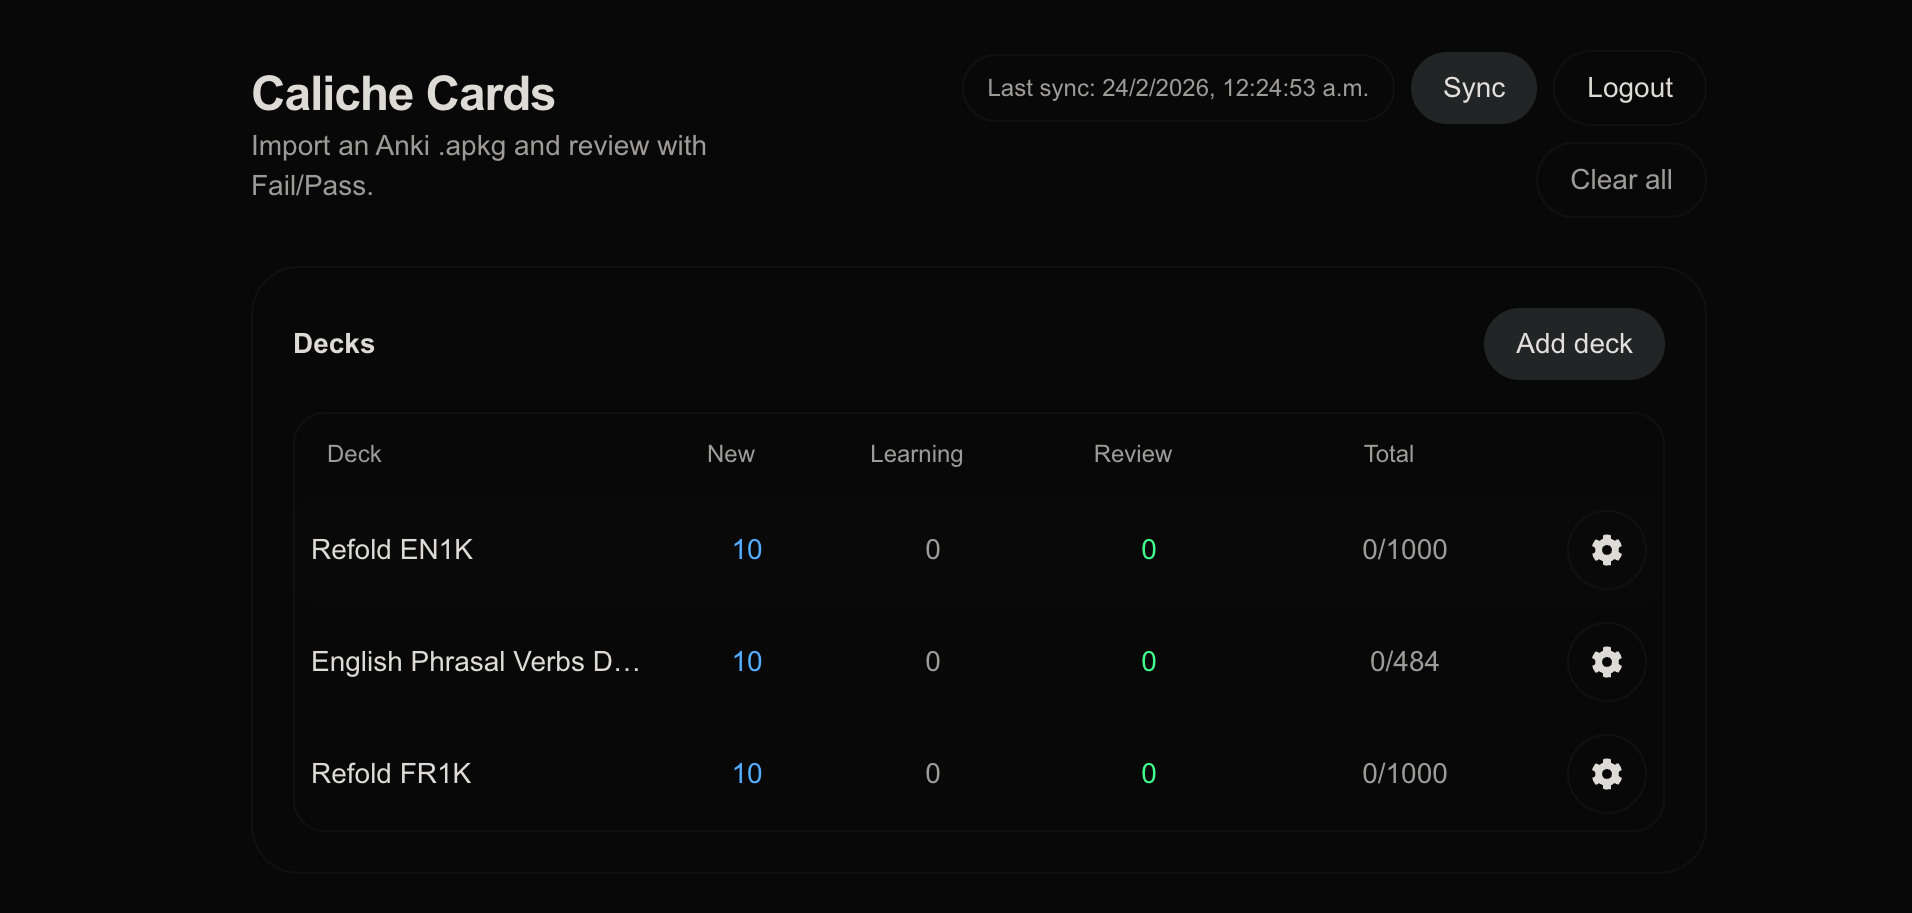
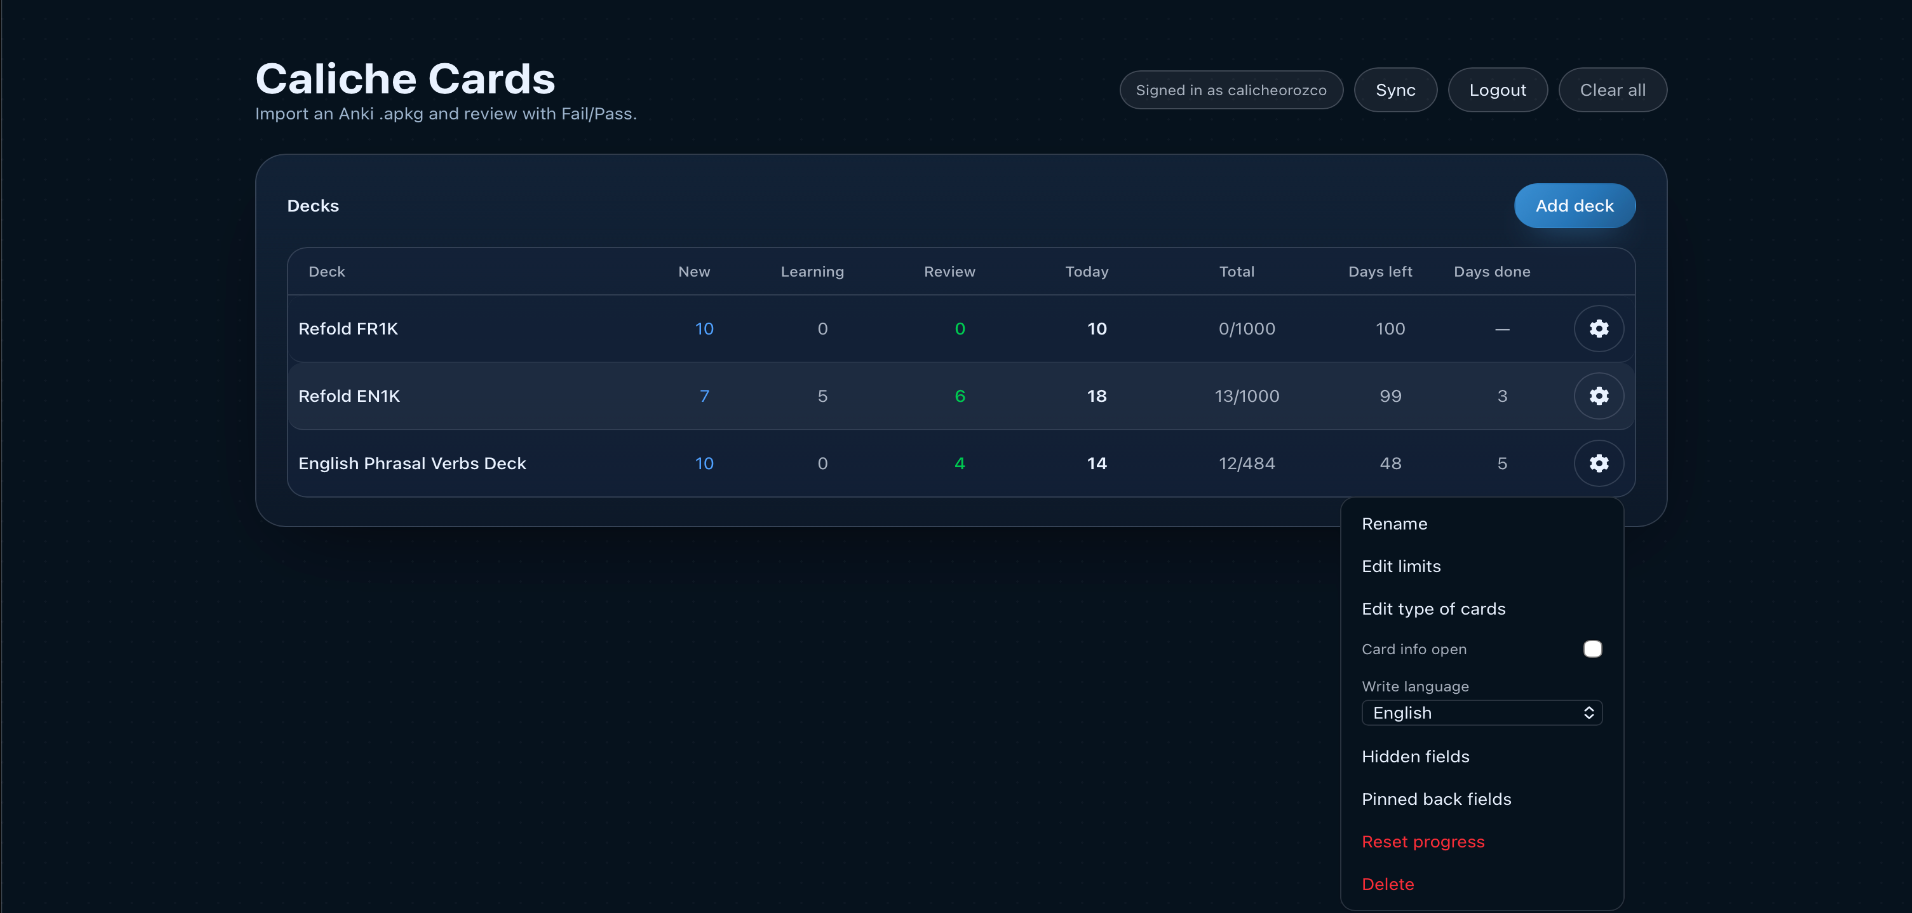
feat: add new portfolio projects and images for enhanced showcase

diff --git a/constants/data.js b/constants/data.js
@@ -30,6 +30,8 @@ import {
   portafolio23,
   portafolio24,
   portafolio25,
+  portafolio26,
+  portafolio27,
   HTML,
   CSS,
   Javascript,
@@ -97,6 +99,65 @@ const myData = {
     }
   ],
   projects: [
+  {
+    title: 'What Should I Watch?',
+    link: 'https://caliche-movies.vercel.app/',
+    github: 'https://github.com/CalicheOrozco/caliche-movies',
+    imgUrl: portafolio26,
+    date: 'May 20, 2026',
+    description: `This one came straight from a personal frustration I've had for years. Every time I sat down to watch something, I'd spend 20 or 30 minutes scrolling through Netflix, Prime, or whatever platform, couldn't decide on anything, and ended up just closing the app and doing something else. It happened constantly, and it was genuinely annoying.
+
+    💡 So I decided to build my own solution: a PWA that asks you a few simple questions about your mood, genre preference, era, and who you're watching with, then just picks something for you using the TMDB API. No endless browsing, no decision paralysis. You answer (or skip) the questions and the app does the rest.
+
+    As I kept using it I kept adding things I personally needed. I added a search bar so I could also look up a specific title and see where it's streaming. I added streaming provider lookup by country because I always wanted to know which platform actually had a movie before getting excited about it. I added swipe gestures because it felt natural on mobile. I added a watch history so I could remember what I'd already seen. I added a "jump to filter" shortcut because sometimes I only care about one thing, like watching something in Korean, and didn't want to step through every question to get there.
+
+    🌍 The app is fully bilingual in English and Spanish, including the synopses pulled from TMDB. It's also installable as a PWA, so I have it on my phone home screen and use it regularly.
+
+    It's one of those projects I built entirely for myself, and it turned out to be one of the ones I use the most.`,
+    stack: [
+      'React',
+      'Vite',
+      'Tailwind',
+      'PWA',
+      'TMDB API'
+    ]
+  },
+  {
+    title: 'Caliche Scrabble',
+    link: 'https://caliche-scrabble.vercel.app',
+    github: 'https://github.com/CalicheOrozco/Caliche-Scrabble',
+    imgUrl: portafolio26,
+    date: 'Apr 16, 2026',
+    description: `I've always loved Scrabble, but I realized that loving a game
+  and being good at it are two different things. The real skill gap for me was
+  anagram recognition: seeing a rack of 7 random tiles and instantly spotting
+  every word hidden inside them. No app I found felt right for serious practice,
+  so I built my own.
+
+  💡 Caliche Scrabble is a full Scrabble training platform. The core is an
+  anagram trainer: you draw random tiles from a real Scrabble bag and your goal
+  is to find every valid word you can form with them. Under the hood, a Web
+  Worker loads both English and Spanish dictionaries (~800,000 words total) on
+  a separate thread, encodes each word as a letter-count vector, and checks the
+  entire dataset against your current hand in ~20ms without ever blocking the UI.
+
+  🧠 But I didn't stop at anagrams. To win at Scrabble you also need a sharp
+  mind: fast pattern recognition, working memory, and mental focus. So I built
+  a full mini-games suite alongside the main trainer. Word Search, Memory
+  Sequence, Number Sequence, Stroop Effect, Math Problems, Fast Category, Word
+  Flash, Emoji Memory, Crossword, and more, each targeting a different cognitive
+  skill that matters at the board.
+
+  📊 The app also includes a Score Tracker, a Word Checker to validate any word
+  against the dictionary, a Spanish Recall mode, and dark mode with anti-FOUC
+  support out of the box.
+
+  The project pushed me to work with Web Workers for the first time, manage
+  complex off-main-thread state, and design a preprocessing pipeline that compiles
+  raw .txt dictionaries into optimized JSON at build time. It's the most
+  technically demanding personal project I've built, and the one I use the most.`,
+    stack: ['React 19', 'TypeScript', 'Vite', 'Tailwind CSS v4', 'Web Workers']
+  }, 
   {
     title: 'Caliche Cards',
     link: 'https://caliche-cards.vercel.app/',

diff --git a/src/images/images.js b/src/images/images.js
@@ -30,6 +30,8 @@ export { default as portafolio22 } from './portafolio22.png'
 export { default as portafolio23 } from './portafolio23.png'
 export { default as portafolio24 } from './portafolio24.png'
 export { default as portafolio25 } from './portafolio25.png'
+export { default as portafolio26 } from './portafolio26.png'
+export { default as portafolio27 } from './portafolio27.png'
 export { default as HTML } from '../images/icons/html.ico'
 export { default as CSS } from '../images/icons/css.ico'
 export { default as Javascript } from '../images/icons/javascript.ico'